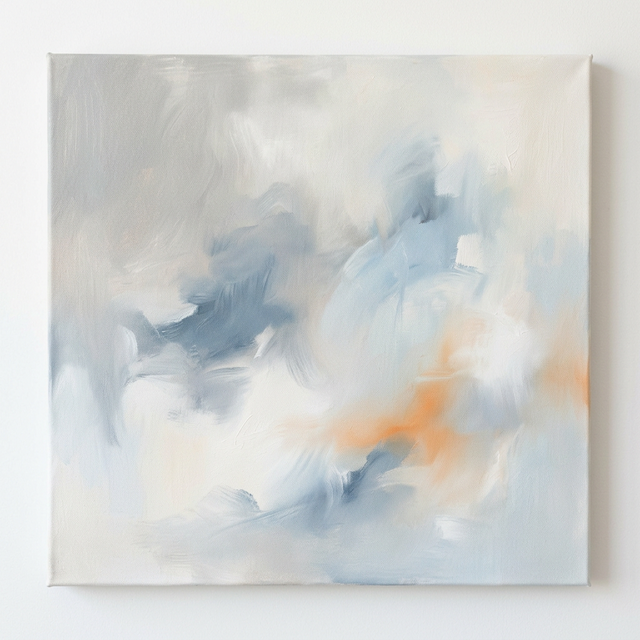
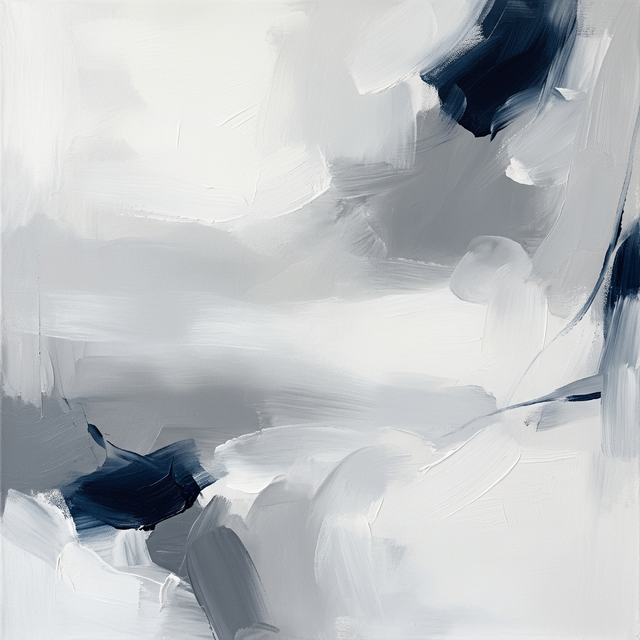
Update palette to calm intellectual white and navy theme

diff --git a/ann-hsu-portfolio/src/styles/variables.css b/ann-hsu-portfolio/src/styles/variables.css
@@ -3,24 +3,30 @@
    ============================================ */
 
 :root {
-  /* ---- Colors (Michael Li inspired) ---- */
-  --color-bg: #F8F8F8;
-  --color-bg-dark: #111111;
-  --color-text-primary: #111111;
-  --color-text-secondary: #6E6E6E;
-  --color-accent: #E26F45;
-  /* Michael's Orange */
-  --color-border: #E8E8E8;
-  --color-border-dark: rgba(255, 255, 255, 0.1);
+  /* ---- Colors (Calm & Intellectual Theme) ---- */
+  --color-bg: #FFFFFF;
+  --color-bg-dark: #050A14;
+  /* Very deep navy/black for footer */
+  --color-text-primary: #000000;
+  --color-text-secondary: #4A5568;
+  --color-accent: #1B2A4E;
+  /* Rich Deep Navy Blue */
+  --color-accent-soft: rgba(27, 42, 78, 0.1);
+  --color-border: #E2E8F0;
+  --color-border-dark: rgba(255, 255, 255, 0.08);
   --color-card-bg: #FFFFFF;
-  --color-hover-bg: #F3F4F6;
+  --color-hover-bg: #F7FAFC;
 
   /* GitHub-style grays for contribution graph (keeping these) */
   --color-gh-empty: #EBEDF0;
   --color-gh-l1: #C6C6C6;
   --color-gh-l2: #9E9E9E;
   --color-gh-l3: #6E6E6E;
-  --color-gh-l4: #333333;
+  /* Hi-count heatmap: empty → deep navy */
+  --color-hi-l1: #D8DEE9;
+  --color-hi-l2: #81A1C1;
+  --color-hi-l3: #4C566A;
+  --color-hi-l4: var(--color-accent);
 
   /* ---- Typography ---- */
   --font-sans: 'Montserrat', -apple-system, BlinkMacSystemFont, 'SF Pro Display',

diff --git a/ann-hsu-portfolio/src/components/Navigation.css b/ann-hsu-portfolio/src/components/Navigation.css
@@ -56,14 +56,14 @@
     width: 64px;
     height: 64px;
     border-radius: 50%;
-    background: var(--color-accent);
+    background: #1B2A4E;
     z-index: 1001;
     display: flex;
     flex-direction: column;
     align-items: center;
     justify-content: center;
     gap: 6px;
-    box-shadow: 0 10px 30px rgba(226, 111, 69, 0.4);
+    box-shadow: 0 10px 30px rgba(27, 42, 78, 0.4);
     cursor: pointer;
 }
 

diff --git a/ann-hsu-portfolio/src/components/Hero.css b/ann-hsu-portfolio/src/components/Hero.css
@@ -80,8 +80,9 @@
 
 .hero__cta:hover {
   transform: translateY(-2px);
-  box-shadow: 0 10px 20px rgba(226, 111, 69, 0.2);
-  background: #d15f38;
+  box-shadow: 0 10px 20px rgba(27, 42, 78, 0.2);
+  background: #111e38;
+  /* Darker navy */
 }
 
 .hero__scroll-indicator {
